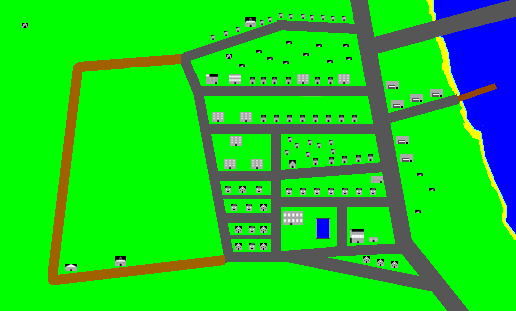
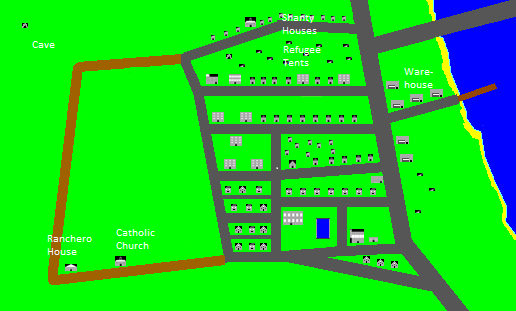
Map Placement - Domain of Ranchero Bautista
Implemented placement of all objects on map

diff --git a/src/ca/javajesus/level/BautistasDomain.java b/src/ca/javajesus/level/BautistasDomain.java
@@ -3,10 +3,21 @@ package ca.javajesus.level;
 import java.awt.Point;
 
 import ca.javajesus.game.entities.structures.CatholicChapel;
+import ca.javajesus.game.entities.structures.CatholicChurch;
 import ca.javajesus.game.entities.structures.CaveEntrance;
 import ca.javajesus.game.entities.structures.GunStore;
 import ca.javajesus.game.entities.structures.NiceHouse;
 import ca.javajesus.game.entities.structures.NiceHouse2;
+import ca.javajesus.game.entities.structures.PoorHouse;
+import ca.javajesus.game.entities.structures.Prison;
+import ca.javajesus.game.entities.structures.Projects;
+import ca.javajesus.game.entities.structures.RancheroHouse;
+import ca.javajesus.game.entities.structures.RefugeeTent;
+import ca.javajesus.game.entities.structures.ShantyHouse;
+import ca.javajesus.game.entities.structures.Warehouse;
+import ca.javajesus.game.entities.structures.Cinema;
+import ca.javajesus.game.entities.structures.School;
+
 
 public class BautistasDomain extends Level{
 	public BautistasDomain(){
@@ -35,8 +46,122 @@ public class BautistasDomain extends Level{
 	 
 	protected void otherEntityPlacement() {
 		
+	    //churches and chapels
+	    this.addEntity(new CatholicChapel(this, 2312, 1280));
+	    this.addEntity(new CatholicChurch(this, 920, 2048));
+	    this.addEntity(new CatholicChurch(this, 1960, 136));
+	    
+	    //cave entrances
+	    this.addEntity(new CaveEntrance(this, 176, 184));
+	    this.addEntity(new CaveEntrance(this, 1808, 432));
+	    
+	    //cinema
+	    this.addEntity(new Cinema(this, 2800, 1832));
+	    
+	    ///gunstore
+	    this.addEntity(new GunStore(this, 2952, 1896));
+	    
+	    //houses
+	    this.addEntity(new NiceHouse(this, 1880, 1808));
+	    this.addEntity(new NiceHouse(this, 1880, 1944));
+	    this.addEntity(new NiceHouse(this, 1912, 1488));
+	    this.addEntity(new NiceHouse(this, 2080, 1632));
+	    this.addEntity(new NiceHouse(this, 2080, 1808));
+	    this.addEntity(new NiceHouse(this, 2080, 1944));
+	    this.addEntity(new NiceHouse(this, 2904, 2048));
+	    this.addEntity(new NiceHouse(this, 3016, 2072));
+	    this.addEntity(new NiceHouse(this, 3128, 2088));
+	    this.addEntity(new NiceHouse2(this, 1800, 1488));
+	    this.addEntity(new NiceHouse2(this, 1848, 1632));
+	    this.addEntity(new NiceHouse2(this, 1968, 1632));
+	    this.addEntity(new NiceHouse2(this, 1992, 1808));
+	    this.addEntity(new NiceHouse2(this, 1992, 1944));
+	    this.addEntity(new NiceHouse2(this, 2048, 1488));
+	    this.addEntity(new NiceHouse2(this, 2288, 1504));
+	    this.addEntity(new NiceHouse2(this, 2400, 1504));
+	    this.addEntity(new NiceHouse2(this, 2512, 1504));
+	    this.addEntity(new NiceHouse2(this, 2624, 1504));
+	    this.addEntity(new NiceHouse2(this, 2736, 1504));
+	    this.addEntity(new NiceHouse2(this, 2848, 1504));
+	    this.addEntity(new NiceHouse2(this, 2960, 1504));
+	    this.addEntity(new PoorHouse(this, 2000, 616));
+	    this.addEntity(new PoorHouse(this, 2088, 616));
+	    this.addEntity(new PoorHouse(this, 2088, 920));
+	    this.addEntity(new PoorHouse(this, 2176, 616));
+	    this.addEntity(new PoorHouse(this, 2192, 920));
+	    this.addEntity(new PoorHouse(this, 2288, 616));
+	    this.addEntity(new PoorHouse(this, 2296, 920));
+	    this.addEntity(new PoorHouse(this, 2400, 920));
+	    this.addEntity(new PoorHouse(this, 2504, 920));
+	    this.addEntity(new PoorHouse(this, 2504, 1264));
+	    this.addEntity(new PoorHouse(this, 2520, 616));
+	    this.addEntity(new PoorHouse(this, 2608, 920));
+	    this.addEntity(new PoorHouse(this, 2624, 616));
+	    this.addEntity(new PoorHouse(this, 2632, 1256));
+	    this.addEntity(new PoorHouse(this, 2712, 920));
+	    this.addEntity(new PoorHouse(this, 2736, 1248));
+	    this.addEntity(new PoorHouse(this, 2816, 920));
+	    this.addEntity(new PoorHouse(this, 2848, 1240));
+	    this.addEntity(new PoorHouse(this, 2944, 1232));
+        this.addEntity(new RancheroHouse(this, 520, 2112));
+        this.addEntity(new ShantyHouse(this, 1688, 280));
+        this.addEntity(new ShantyHouse(this, 1792, 248));
+        this.addEntity(new ShantyHouse(this, 1888, 216));
+        this.addEntity(new ShantyHouse(this, 2080, 160));
+        this.addEntity(new ShantyHouse(this, 2144, 128));
+        this.addEntity(new ShantyHouse(this, 2232, 104));
+        this.addEntity(new ShantyHouse(this, 2280, 1200));
+        this.addEntity(new ShantyHouse(this, 2304, 1096));
+        this.addEntity(new ShantyHouse(this, 2312, 112));
+        this.addEntity(new ShantyHouse(this, 2360, 1144));
+        this.addEntity(new ShantyHouse(this, 2408, 112));
+        this.addEntity(new ShantyHouse(this, 2448, 1216));
+        this.addEntity(new ShantyHouse(this, 2464, 1120));
+        this.addEntity(new ShantyHouse(this, 2472, 112));
+        this.addEntity(new ShantyHouse(this, 2536, 1144));
+        this.addEntity(new ShantyHouse(this, 2568, 120));
+        this.addEntity(new ShantyHouse(this, 2632, 1120));
+        this.addEntity(new ShantyHouse(this, 2648, 120));
+        this.addEntity(new ShantyHouse(this, 2648, 1192));
+        this.addEntity(new ShantyHouse(this, 2736, 128));
+
+	    //african-american lodging
+	    this.addEntity(new Prison(this, 1648, 592));
+	    this.addEntity(new Projects(this, 1696, 896));
+	    this.addEntity(new Projects(this, 1792, 1264));
+	    this.addEntity(new Projects(this, 1832, 592));
+	    this.addEntity(new Projects(this, 1840, 1088));
+	    this.addEntity(new Projects(this, 1920, 896));
+	    this.addEntity(new Projects(this, 2008, 1272));
+	    this.addEntity(new Projects(this, 2376, 352));
+	    this.addEntity(new Projects(this, 2704, 592));
+	    this.addEntity(new RefugeeTent(this, 1912, 512));
+	    this.addEntity(new RefugeeTent(this, 2048, 400));
+	    this.addEntity(new RefugeeTent(this, 2128, 448));
+	    this.addEntity(new RefugeeTent(this, 2264, 488));
+	    this.addEntity(new RefugeeTent(this, 2288, 328));
+	    this.addEntity(new RefugeeTent(this, 2424, 424));
+	    this.addEntity(new RefugeeTent(this, 2528, 352));
+	    this.addEntity(new RefugeeTent(this, 2616, 480));
+	    this.addEntity(new RefugeeTent(this, 2744, 352));
+	    this.addEntity(new RefugeeTent(this, 2768, 456));
+	    this.addEntity(new RefugeeTent(this, 3320, 1680));
+	    this.addEntity(new RefugeeTent(this, 3336, 1384));
+	    this.addEntity(new RefugeeTent(this, 3432, 1504));
+
+	    //caucasian lodging
+	    this.addEntity(new School(this, 2264, 1688));
+
+	    //warehouses
+	    this.addEntity(new Warehouse(this, 2968, 1408));
+	    this.addEntity(new Warehouse(this, 3088, 648));
+	    this.addEntity(new Warehouse(this, 3128, 800));
+	    this.addEntity(new Warehouse(this, 3168, 1088));
+	    this.addEntity(new Warehouse(this, 3200, 1232));
+	    this.addEntity(new Warehouse(this, 3280, 752));
+	    this.addEntity(new Warehouse(this, 3440, 712));
 		
-		//Sequoa City
+		//Sequoia City
 		//Bautista's Cattle Ranch
 		
 		
